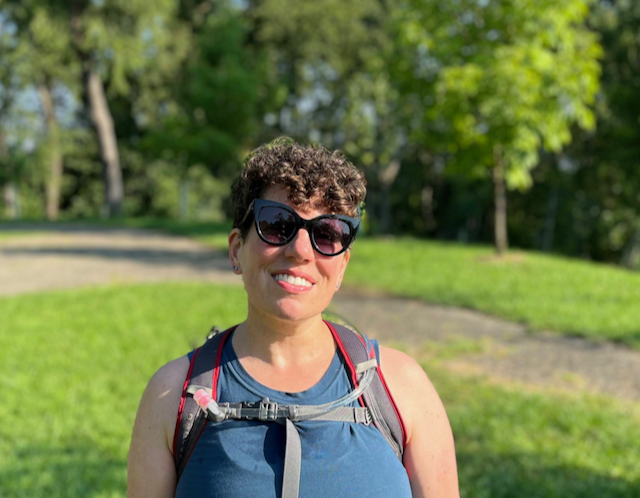
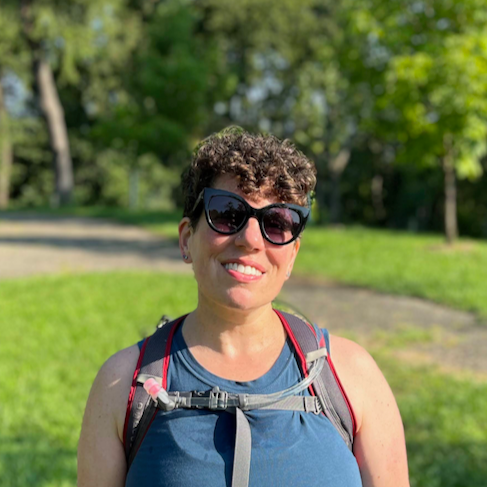
Fixing issues with about us page

diff --git a/production/src/routes/aboutus.jsx b/production/src/routes/aboutus.jsx
@@ -19,12 +19,11 @@ export default function AboutUs() {
         </p>
         
         <div style={{display:'flex', flexFlow: 'row wrap', justifyContent:'center'}}>
-          <Link to ="https://www.linkedin.com/in/ashley-butela" target="_blank">
-          <Link to ="https://www.github.com/abutela" target="_blank">
-          <Card className ="card" sx={{ width: 35+'vh', margin:1.5 +'vw', backgroundColor:'rgba(255,255,255,0.5)',borderRadius:15+'px'}}>
+          <Link to ="https://www.linkedin.com/in/ashley-butela" target="_blank" style={{textDecoration:'none'}}>
+          <Card className ="card" sx={{ minWidth: 35+'vh', maxWidth:35 + 'vh',margin:1.5 +'vw', backgroundColor:'rgba(255,255,255,0.5)',borderRadius:15+'px'}}>
             <CardActionArea>
               <CardContent>
-              <CardMedia component='img' image={IMAGES.ashley} alt='Photo of Ashley Butela'/>
+              <CardMedia className="aboutPics" component='img' image={IMAGES.ashley} alt='Photo of Ashley Butela'/>
                 <Typography className="card_name" variant="h4" color="text.primary">
                   Ashley
                 </Typography>
@@ -39,13 +38,11 @@ export default function AboutUs() {
             </CardActionArea>
           </Card>
           </Link>
-          </Link>
 
-          <Link to="https://www.linkedin.com/in/amy-c-9b7a9a23b/" target="_blank">
-          <Link to="https://github.com/pghgal317" target="_blank">
-          <Card className ="card"sx={{ width: 35+'vh', margin:1.5+'vw', backgroundColor:'rgba(255,255,255,0.5)',borderRadius:15+'px'}}>
+          <Link to="https://www.linkedin.com/in/amy-c-9b7a9a23b/" target="_blank"style={{textDecoration:'none'}}>
+          <Card className ="card"sx={{ minWidth: 35+'vh', maxWidth:35 + 'vh', margin:1.5+'vw', backgroundColor:'rgba(255,255,255,0.5)',borderRadius:15+'px'}}>
             <CardContent>
-            <CardMedia component='img' image={IMAGES.amy} alt='Photo of Amy Ciuffoletti'/>
+            <CardMedia className="aboutPics" component='img' image={IMAGES.amy} alt='Photo of Amy Ciuffoletti'/>
               <Typography className="card_name" variant="h4" color="text.primary">
                 Amy
               </Typography>
@@ -59,13 +56,11 @@ export default function AboutUs() {
             </CardContent>
           </Card>
           </Link>
-          </Link>
 
-          <Link to='https://www.linkedin.com/in/viktoriia-denys/' target="_blank">
-          <Link to="https://www.github.com/vdenys93" target="_blank">
-          <Card sx={{ width: 35+'vh', margin:1.5+'vw', backgroundColor:'rgba(255,255,255,0.5)',borderRadius:15+'px'}}>
+          <Link to='https://www.linkedin.com/in/viktoriia-denys/' target="_blank"style={{textDecoration:'none'}}>
+          <Card sx={{ minWidth: 35+'vh', maxWidth:35 + 'vh',margin:1.5+'vw', backgroundColor:'rgba(255,255,255,0.5)',borderRadius:15+'px'}}>
             <CardContent>
-            <CardMedia component='img' image={IMAGES.viktoriia} alt='Photo of Viktoriia Denys'/>
+            <CardMedia className="aboutPics" component='img' image={IMAGES.viktoriia} alt='Photo of Viktoriia Denys'/>
               <Typography className="card_name" variant="h4" color="text.primary">
                 Viktoriia
               </Typography>
@@ -78,13 +73,11 @@ export default function AboutUs() {
             </CardContent>
           </Card>
           </Link>
-          </Link>
 
-          <Link to="https://www.linkedin.com/in/jordan-rood/" target="_blank">
-          <Link to="https://www.github.com/rood-jordan" target="_blank">
-          <Card sx={{ width: 35+'vh', margin:1.5+'vw', backgroundColor:'rgba(255,255,255,0.5)',borderRadius:15+'px'}}>
+          <Link to="https://www.linkedin.com/in/jordan-rood/" target="_blank"style={{textDecoration:'none'}}>
+          <Card sx={{ minWidth: 35+'vh', maxWidth:35 + 'vh',margin:1.5+'vw', backgroundColor:'rgba(255,255,255,0.5)',borderRadius:15+'px'}}>
             <CardContent>
-            <CardMedia component='img' image={IMAGES.jordan} alt='Photo of Jordan Rood'/>
+            <CardMedia className="aboutPics" component='img' image={IMAGES.jordan} alt='Photo of Jordan Rood'/>
               <Typography className="card_name" variant="h4" color="text.primary">
                 Jordan
               </Typography>
@@ -98,13 +91,11 @@ export default function AboutUs() {
             </CardContent>
           </Card>
           </Link>
-          </Link>
 
-          <Link to="https://www.linkedin.com/in/fionnlagh-jones/">
-          <Link to="https://www.github.com/fionnlaghjones">
-          <Card sx={{ width: 35+'vh', margin:1.5+'vw', backgroundColor:'rgba(255,255,255,0.5)',borderRadius:15+'px'}}>
+          <Link to="https://www.linkedin.com/in/fionnlagh-jones/"target ="-blank" style={{textDecoration:'none'}}>
+          <Card sx={{ minWidth: 35+'vh', maxWidth:35 + 'vh', margin:1.5+'vw', backgroundColor:'rgba(255,255,255,0.5)',borderRadius:15+'px'}}>
             <CardContent>
-            <CardMedia component='img' image={IMAGES.finnly} alt='Photo of Fionnlagh Jones'/>
+            <CardMedia className="aboutPics" component='img' image={IMAGES.finnly} alt='Photo of Fionnlagh Jones'/>
               <Typography className="card_name" variant="h4" color="text.primary">
                 Fionnlagh
               </Typography>
@@ -116,7 +107,6 @@ export default function AboutUs() {
               </Typography>
             </CardContent>
           </Card>
-          </Link>
           </Link>
         </div>
       </div>

diff --git a/production/src/assets/images/Images.jsx b/production/src/assets/images/Images.jsx
@@ -30,11 +30,11 @@ const IMAGES = {
     linkedList: new URL('./linked-list.png', import.meta.url).href,
     nodeman: new URL('./nodeman.svg', import.meta.url).href,
     doublyLinkedList: new URL('./doubly-linked-list.png', import.meta.url).href,
-    jordan: new URL('./Rood-Photo.jpg', import.meta.url).href,
+    jordan: new URL('./jordan.png', import.meta.url).href,
     ashley: new URL('./ashley.png', import.meta.url).href,
     finnly: new URL('./finnly.png', import.meta.url).href,
     amy: new URL('./amy.png', import.meta.url).href,
-    viktoriia: new URL('./viktorria.jpg', import.meta.url).href
+    viktoriia: new URL('./viktorria.png', import.meta.url).href
 };
 
 export default IMAGES

diff --git a/production/src/styles/index.css b/production/src/styles/index.css
@@ -341,6 +341,11 @@ i {
   padding:3vh;
 }
 
+.aboutPics{
+  width: 34vh;
+  height: 34vh;
+}
+
 @media screen and (orientation:landscape)
 and (max-device-width: 900px) {
   
